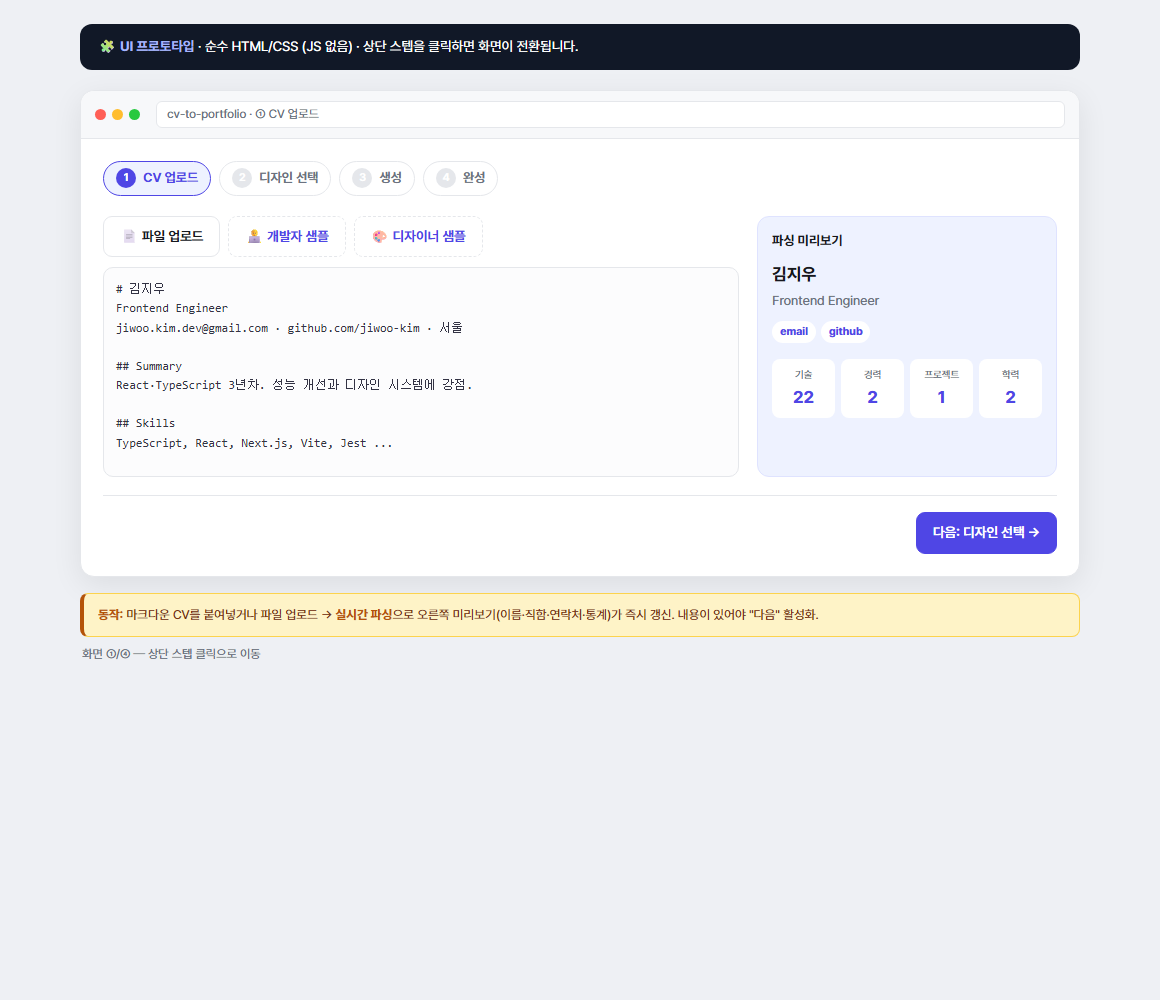
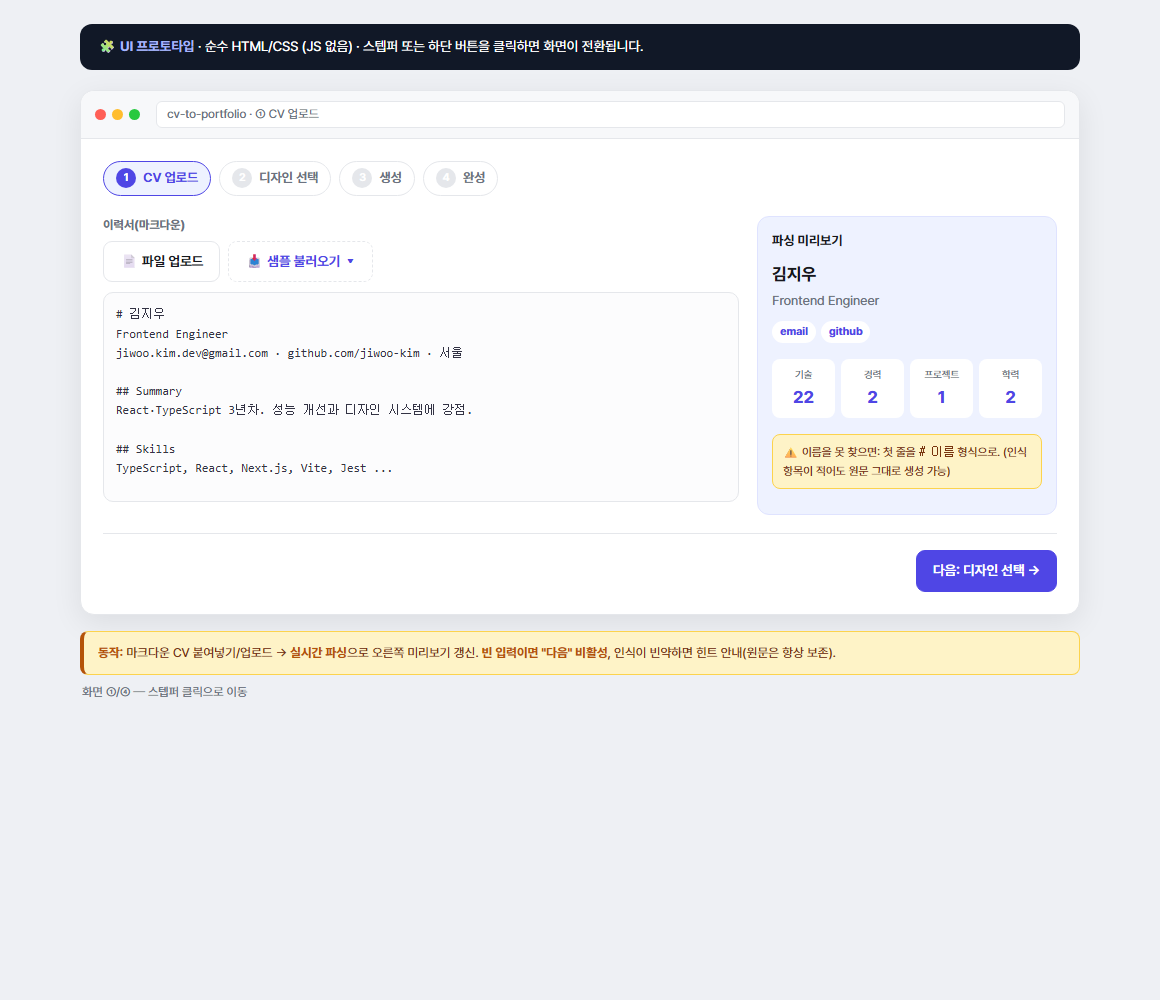
docs: UX 리뷰 반영 (예외 상태·접근성·직군 무관 표현)
- 기획서 §3: 상태·예외(빈 입력/파싱 빈약/미지원 파일/자동 전환/폴백/되돌아가기·비교) + 접근성(ARIA) 보강
- 기획서 §4.3: 산출물(생성 HTML) 접근성 요건 추가
- prototype: 스텝퍼를 실제 클릭 가능한 링크로, aria-current/role=status,
  테마 라벨을 직군어→스타일어로, 샘플 버튼 단일화, ④에 '디자인만 바꾸기'

diff --git a/cv-to-portfolio/docs/prototype.html b/cv-to-portfolio/docs/prototype.html
@@ -27,14 +27,15 @@
     border-radius:6px;padding:3px 10px;flex:1}
   .frame-body{padding:22px}
 
-  /* 스텝퍼 */
+  /* 스텝퍼 (완료/현재 단계는 클릭해 이동 가능) */
   .stepper{list-style:none;display:flex;gap:8px;padding:0;margin:0 0 20px;flex-wrap:wrap}
-  .stepper li{display:flex;align-items:center;gap:7px;padding:6px 12px;border-radius:999px;background:#fff;
-    border:1px solid var(--line);color:var(--muted);font-size:13px;font-weight:600}
+  .stepper li{border-radius:999px;background:#fff;border:1px solid var(--line);color:var(--muted);font-size:13px;font-weight:600}
+  .stepper li a{display:flex;align-items:center;gap:7px;padding:6px 12px;color:inherit;text-decoration:none;border-radius:999px}
   .stepper .no{display:inline-grid;place-items:center;width:20px;height:20px;border-radius:50%;background:var(--line);color:#fff;font-size:11px}
   .stepper li.on{border-color:var(--brand);color:var(--brand);background:var(--brand-soft)}
   .stepper li.on .no{background:var(--brand)}
   .stepper li.done{color:var(--ok)} .stepper li.done .no{background:var(--ok)}
+  .stepper li.todo a{cursor:default}
 
   /* 화면 전환: 기본 s1, 앵커 타겟이면 해당 화면 */
   .screen{display:none}
@@ -49,10 +50,12 @@
     padding:9px 16px;border-radius:9px;text-decoration:none;display:inline-block}
   .btn.primary{background:var(--brand);border-color:var(--brand);color:#fff}
   .btn.ghost{border-style:dashed;color:var(--brand)}
-  .nav{display:flex;justify-content:space-between;gap:10px;margin-top:18px;border-top:1px solid var(--line);padding-top:16px}
+  .btn:disabled,.btn.disabled{opacity:.5}
+  .nav{display:flex;justify-content:space-between;gap:10px;margin-top:18px;border-top:1px solid var(--line);padding-top:16px;align-items:center;flex-wrap:wrap}
 
   .textarea{height:210px;border:1px solid var(--line);border-radius:10px;background:#fcfcfd;padding:12px;
     font-family:ui-monospace,Menlo,Consolas,monospace;font-size:12px;color:#334;white-space:pre-wrap;overflow:hidden}
+  .field-label{font-size:12px;font-weight:700;color:var(--muted);margin-bottom:6px;display:block}
   .toolbar{display:flex;gap:8px;margin-bottom:10px;flex-wrap:wrap}
   .preview-card{background:var(--brand-soft);border:1px solid #dfe3ff;border-radius:12px;padding:14px}
   .preview-card h4{margin:0 0 10px;font-size:13px}
@@ -63,6 +66,7 @@
   .stats{display:grid;grid-template-columns:repeat(4,1fr);gap:6px}
   .stats div{background:#fff;border-radius:8px;padding:7px 2px;text-align:center}
   .stats dt{font-size:10px;color:var(--muted)} .stats dd{margin:2px 0 0;font-size:17px;font-weight:800;color:var(--brand)}
+  .hint{margin-top:10px;font-size:11.5px;color:#78350f;background:var(--note-bg);border:1px solid #fcd34d;border-radius:8px;padding:8px 10px}
 
   /* 디자인 카드 */
   .tcards{display:flex;flex-direction:column;gap:9px}
@@ -106,7 +110,7 @@
 </head>
 <body>
 <div class="page">
-  <div class="doc-banner">🧩 <b>UI 프로토타입</b> · 순수 HTML/CSS (JS 없음) · 상단 스텝을 클릭하면 화면이 전환됩니다.</div>
+  <div class="doc-banner">🧩 <b>UI 프로토타입</b> · 순수 HTML/CSS (JS 없음) · 스텝퍼 또는 하단 버튼을 클릭하면 화면이 전환됩니다.</div>
 
   <!-- ① 업로드 -->
   <section class="screen" id="s1">
@@ -115,19 +119,19 @@
         <span class="frame-url">cv-to-portfolio · ① CV 업로드</span></div>
       <div class="frame-body">
         <ul class="stepper">
-          <li class="on"><span class="no">1</span> CV 업로드</li>
-          <li><span class="no">2</span> 디자인 선택</li>
-          <li><span class="no">3</span> 생성</li>
-          <li><span class="no">4</span> 완성</li>
+          <li class="on" aria-current="step"><a href="#s1"><span class="no">1</span> CV 업로드</a></li>
+          <li class="todo"><a href="#s2"><span class="no">2</span> 디자인 선택</a></li>
+          <li class="todo"><a href="#s3"><span class="no">3</span> 생성</a></li>
+          <li class="todo"><a href="#s4"><span class="no">4</span> 완성</a></li>
         </ul>
         <div class="grid2">
           <div>
+            <label class="field-label" for="cv">이력서(마크다운)</label>
             <div class="toolbar">
               <span class="btn">📄 파일 업로드</span>
-              <span class="btn ghost">🧑💻 개발자 샘플</span>
-              <span class="btn ghost">🎨 디자이너 샘플</span>
+              <span class="btn ghost">📥 샘플 불러오기 ▾</span>
             </div>
-            <div class="textarea"># 김지우
+            <div class="textarea" id="cv"># 김지우
 Frontend Engineer
 jiwoo.kim.dev@gmail.com · github.com/jiwoo-kim · 서울
 
@@ -152,13 +156,14 @@ TypeScript, React, Next.js, Vite, Jest ...
               <div><dt>프로젝트</dt><dd>1</dd></div>
               <div><dt>학력</dt><dd>2</dd></div>
             </dl>
+            <p class="hint">⚠ 이름을 못 찾으면: 첫 줄을 <code># 이름</code> 형식으로. (인식 항목이 적어도 원문 그대로 생성 가능)</p>
           </aside>
         </div>
         <div class="nav"><span></span><a class="btn primary" href="#s2">다음: 디자인 선택 →</a></div>
       </div>
     </div>
-    <div class="note"><b>동작:</b> 마크다운 CV를 붙여넣거나 파일 업로드 → <b>실시간 파싱</b>으로 오른쪽 미리보기(이름·직함·연락처·통계)가 즉시 갱신. 내용이 있어야 "다음" 활성화.</div>
-    <p class="cap">화면 ①/④ — 상단 스텝 클릭으로 이동</p>
+    <div class="note"><b>동작:</b> 마크다운 CV 붙여넣기/업로드 → <b>실시간 파싱</b>으로 오른쪽 미리보기 갱신. <b>빈 입력이면 "다음" 비활성</b>, 인식이 빈약하면 힌트 안내(원문은 항상 보존).</div>
+    <p class="cap">화면 ①/④ — 스텝퍼 클릭으로 이동</p>
   </section>
 
   <!-- ② 디자인 선택 -->
@@ -168,32 +173,32 @@ TypeScript, React, Next.js, Vite, Jest ...
         <span class="frame-url">cv-to-portfolio · ② 디자인 선택</span></div>
       <div class="frame-body">
         <ul class="stepper">
-          <li class="done"><span class="no">✓</span> CV 업로드</li>
-          <li class="on"><span class="no">2</span> 디자인 선택</li>
-          <li><span class="no">3</span> 생성</li>
-          <li><span class="no">4</span> 완성</li>
+          <li class="done"><a href="#s1"><span class="no">✓</span> CV 업로드</a></li>
+          <li class="on" aria-current="step"><a href="#s2"><span class="no">2</span> 디자인 선택</a></li>
+          <li class="todo"><a href="#s3"><span class="no">3</span> 생성</a></li>
+          <li class="todo"><a href="#s4"><span class="no">4</span> 완성</a></li>
         </ul>
         <div class="grid-design">
           <div class="tcards">
             <div class="tcard on">
               <span class="sw" style="background:#fff"><i style="width:60%;background:#2b5ce6"></i><i style="width:80%;background:#1a1d23"></i><i style="width:70%;background:#5b616e"></i></span>
-              <span class="tname">Minimal Clean <span class="rec">추천</span></span><span class="tvibe">여백 중심 미니멀</span>
+              <span class="tname">Minimal Clean <span class="rec">추천</span></span><span class="tvibe">여백 중심 · 고대비 라이트</span>
             </div>
             <div class="tcard">
               <span class="sw" style="background:#0a0e14"><i style="width:60%;background:#3be38b"></i><i style="width:80%;background:#d6e0ea"></i><i style="width:70%;background:#8a97a6"></i></span>
-              <span class="tname">Terminal Dark</span><span class="tvibe">개발자 다크 콘솔</span>
+              <span class="tname">Terminal Dark</span><span class="tvibe">모노스페이스 · 고대비 다크</span>
             </div>
             <div class="tcard">
               <span class="sw" style="background:#0f0b1e"><i style="width:60%;background:#b57bff"></i><i style="width:80%;background:#f4f1ff"></i><i style="width:70%;background:#ff7ac6"></i></span>
-              <span class="tname">Creative Gradient</span><span class="tvibe">컬러풀 그라디언트</span>
+              <span class="tname">Creative Gradient</span><span class="tvibe">그라디언트 배너 · 컬러풀</span>
             </div>
             <div class="tcard">
               <span class="sw" style="background:#fbfaf7"><i style="width:60%;background:#8a4b2f"></i><i style="width:80%;background:#1f1b16"></i><i style="width:70%;background:#6b6357"></i></span>
-              <span class="tname">Editorial Serif</span><span class="tvibe">매거진 세리프</span>
+              <span class="tname">Editorial Serif</span><span class="tvibe">세리프 · 매거진 여백</span>
             </div>
             <div class="tcard">
               <span class="sw" style="background:#f4f6f8"><i style="width:60%;background:#1f5fa8"></i><i style="width:80%;background:#1a2230"></i><i style="width:70%;background:#5a6572"></i></span>
-              <span class="tname">Pro Sidebar</span><span class="tvibe">비즈니스 사이드바</span>
+              <span class="tname">Pro Sidebar</span><span class="tvibe">좌측 프로필 사이드바 레이아웃</span>
             </div>
           </div>
           <div class="docmd"><span class="h"># Minimal Clean</span>
@@ -206,13 +211,13 @@ TypeScript, React, Next.js, Vite, Jest ...
 - 강조 #2B5CE6 (딥 블루)
 
 <span class="h">## 이럴 때 좋아요</span>
-- 대기업·금융 등 보수적 업계 지원 시
+- 정보 전달이 우선일 때
 - 직군 무관 가장 무난한 기본값</div>
         </div>
         <div class="nav"><a class="btn" href="#s1">← 이전</a><a class="btn primary" href="#s3">이 디자인으로 생성 →</a></div>
       </div>
     </div>
-    <div class="note"><b>동작:</b> 왼쪽 <b>테마 카드</b>를 고르면 오른쪽에 해당 <b>DESIGN.md 원문</b> 표시. 테마는 "직군"이 아니라 "분위기/스타일" 선택지.</div>
+    <div class="note"><b>동작:</b> 왼쪽 <b>테마 카드</b>를 고르면 오른쪽에 해당 <b>DESIGN.md 원문</b> 표시. 테마는 "직군"이 아니라 <b>"분위기/스타일" 선택지</b>(라벨도 스타일 언어로).</div>
     <p class="cap">화면 ②/④</p>
   </section>
 
@@ -223,12 +228,12 @@ TypeScript, React, Next.js, Vite, Jest ...
         <span class="frame-url">cv-to-portfolio · ③ 생성</span></div>
       <div class="frame-body">
         <ul class="stepper">
-          <li class="done"><span class="no">✓</span> CV 업로드</li>
-          <li class="done"><span class="no">✓</span> 디자인 선택</li>
-          <li class="on"><span class="no">3</span> 생성</li>
-          <li><span class="no">4</span> 완성</li>
+          <li class="done"><a href="#s1"><span class="no">✓</span> CV 업로드</a></li>
+          <li class="done"><a href="#s2"><span class="no">✓</span> 디자인 선택</a></li>
+          <li class="on" aria-current="step"><a href="#s3"><span class="no">3</span> 생성</a></li>
+          <li class="todo"><a href="#s4"><span class="no">4</span> 완성</a></li>
         </ul>
-        <div class="gen">
+        <div class="gen" role="status" aria-live="polite">
           <div class="spin"></div>
           <p style="font-size:16px;margin:0">✨ <b>Minimal Clean</b> 스타일로 생성 중</p>
           <ul class="stages">
@@ -238,10 +243,10 @@ TypeScript, React, Next.js, Vite, Jest ...
             <li>• HTML 페이지 조립</li>
           </ul>
         </div>
-        <div class="nav"><a class="btn" href="#s2">← 이전</a><span></span></div>
+        <div class="nav"><a class="btn" href="#s2">← 이전</a><span class="cap">완료되면 자동으로 ④로 이동</span></div>
       </div>
     </div>
-    <div class="note"><b>동작:</b> <b>결정적 렌더러</b>가 (파싱된 CV + 디자인 토큰) → 독립 실행형 HTML을 조립. 백엔드·API 키 불필요. 단계 표시는 진행감을 위한 연출.</div>
+    <div class="note"><b>동작:</b> <b>결정적 렌더러</b>가 (파싱된 CV + 디자인 토큰) → 독립 실행형 HTML을 조립하고 <b>완료 시 자동으로 화면 ④로 전환</b>. 백엔드·API 키 불필요(<code>role="status"</code>로 진행 안내).</div>
     <p class="cap">화면 ③/④</p>
   </section>
 
@@ -252,10 +257,10 @@ TypeScript, React, Next.js, Vite, Jest ...
         <span class="frame-url">cv-to-portfolio · ④ 완성</span></div>
       <div class="frame-body">
         <ul class="stepper">
-          <li class="done"><span class="no">✓</span> CV 업로드</li>
-          <li class="done"><span class="no">✓</span> 디자인 선택</li>
-          <li class="done"><span class="no">✓</span> 생성</li>
-          <li class="on"><span class="no">4</span> 완성</li>
+          <li class="done"><a href="#s1"><span class="no">✓</span> CV 업로드</a></li>
+          <li class="done"><a href="#s2"><span class="no">✓</span> 디자인 선택</a></li>
+          <li class="done"><a href="#s3"><span class="no">✓</span> 생성</a></li>
+          <li class="on" aria-current="step"><a href="#s4"><span class="no">4</span> 완성</a></li>
         </ul>
         <div class="result-bar">
           <div class="tabs"><span class="on">미리보기</span><span>HTML 코드</span></div>
@@ -267,10 +272,13 @@ TypeScript, React, Next.js, Vite, Jest ...
           <div class="sec"><div class="sl">소개</div><div class="ln" style="width:96%"></div><div class="ln" style="width:88%"></div></div>
           <div class="sec"><div class="sl">경력</div><div class="ln" style="width:70%"></div><div class="ln" style="width:92%"></div><div class="ln" style="width:84%"></div></div>
         </div>
-        <div class="nav"><a class="btn" href="#s1">↺ 새로 만들기</a><span class="cap">다운로드한 .html은 그대로 웹에 올리면 포트폴리오</span></div>
+        <div class="nav">
+          <a class="btn" href="#s1">↺ 새로 만들기</a>
+          <a class="btn ghost" href="#s2">🎨 디자인만 바꾸기 (CV 유지)</a>
+        </div>
       </div>
     </div>
-    <div class="note"><b>동작:</b> <b>미리보기(iframe) ↔ HTML 코드</b> 탭 전환. <b>다운로드</b>로 <code>&lt;이름&gt;_portfolio.html</code> 저장, 코드 복사, 새로 만들기(초기화).</div>
+    <div class="note"><b>동작:</b> <b>미리보기(iframe) ↔ HTML 코드</b> 탭 전환. <b>다운로드</b>로 <code>&lt;이름&gt;_portfolio.html</code> 저장, 코드 복사. <b>"디자인만 바꾸기"</b>로 CV를 유지한 채 ②로 돌아가 테마 비교.</div>
     <p class="cap">화면 ④/④</p>
   </section>
 </div>

diff --git a/cv-to-portfolio/docs/기획서.md b/cv-to-portfolio/docs/기획서.md
@@ -17,6 +17,7 @@
   - **범용 AI에 통째로 요청** — 결과가 매번 달라 재현·비교가 어렵고 디자인 방향을 통제하기 힘들다.
 - **우리가 푸는 문제:** 내용(CV)과 디자인(DESIGN.md)을 **분리**해, 사용자는 *내용은 올리기만, 디자인은 고르기만* 하면 **완성된 독립 실행형 포트폴리오 HTML**을 즉시 얻는다.
   - → 결과는 **파일로 소유·배포** 가능하고, 디자인 선택은 **재현·비교** 가능하다.
+- **성공 가설:** 대상 사용자가 코드를 몰라도 **몇 분 안에** 다운로드 가능한 포트폴리오 1개를 얻는다.
 
 ## 2. 사용자 시나리오
 
@@ -57,6 +58,16 @@
 ![화면 ④ 완성](screens/s4.png)
 - **미리보기(iframe) ↔ HTML 코드** 탭 전환. **다운로드**(`<이름>_portfolio.html`) · 코드 복사 · 새로 만들기.
 
+### 상태·예외 & 접근성 (해피패스 밖) *(UX 리뷰 반영)*
+해피패스(①~④) 외에 아래 상태도 함께 설계한다.
+- **빈 입력** — CV가 비어 있으면 "다음: 디자인 선택"을 비활성화한다. *(프로토타입 반영)*
+- **파싱 빈약** — 이름/섹션 인식이 거의 없으면 미리보기에 "인식된 항목이 적어요" 안내 + **인라인 힌트**("이름을 못 찾았어요 — 첫 줄을 `# 이름` 형식으로")를 띄우되, **원문 보존 원칙**에 따라 생성은 허용한다.
+- **지원하지 않는 파일** — `.md/.txt`가 아닌 파일 업로드 시 토스트로 알린다.
+- **생성 중 → 완료** — 화면 ③ 로딩 후 **자동으로 화면 ④로 전환**한다. (결정적 렌더러라 실제로는 즉시 완료)
+- **(드묾) 렌더/다운로드 예외** — 실패는 드물지만 브라우저 다운로드 차단 등에 대비해 **원문/코드 폴백 + 인라인 재시도**를 제공한다. (별도 실패 화면은 두지 않음)
+- **되돌아가기 / 비교** — **완료된 스텝은 클릭해 되돌아갈 수 있고**, 화면 ④의 **"디자인만 바꾸기"(CV 유지한 채 ②로)** 로 테마 비교를 쉽게 한다.
+- **접근성** — 상태(진행/완료)를 색·글리프뿐 아니라 **텍스트+ARIA**(`aria-current="step"`, 로딩 `role="status"`)로 이중 전달, 키보드 포커스 순서 보장, 입력 영역 라벨 제공.
+
 ## 4. 핵심 기능 (핵심 먼저, 서브는 뒤로)
 
 ### 4.1 CV 파싱 — *가장 핵심*
@@ -72,6 +83,7 @@
 - **입력:** 파싱된 CV + 디자인 토큰 · **출력:** **독립 실행형 HTML 1개**(인라인 CSS, 외부 의존 없음).
 - 레이아웃 4종(single-column / timeline / two-column / sidebar), 사용자 입력은 이스케이프.
 - **방식 결정:** 실 LLM이 아닌 **결정적 렌더러 유지** → 재현·비교가 쉽고 백엔드·API 키 불필요.
+- **산출물 접근성 요건:** 생성 HTML은 `lang` 지정 · 본문 대비 **WCAG AA**(전 테마 검증 기준) · 시맨틱 랜드마크 유지 — 사용자가 소유·배포하는 최종물이라 필수.
 
 ### 4.4 결과 전달
 - 미리보기 ↔ HTML 코드 탭 · 파일 다운로드 · 코드 복사 · 새로 만들기.
